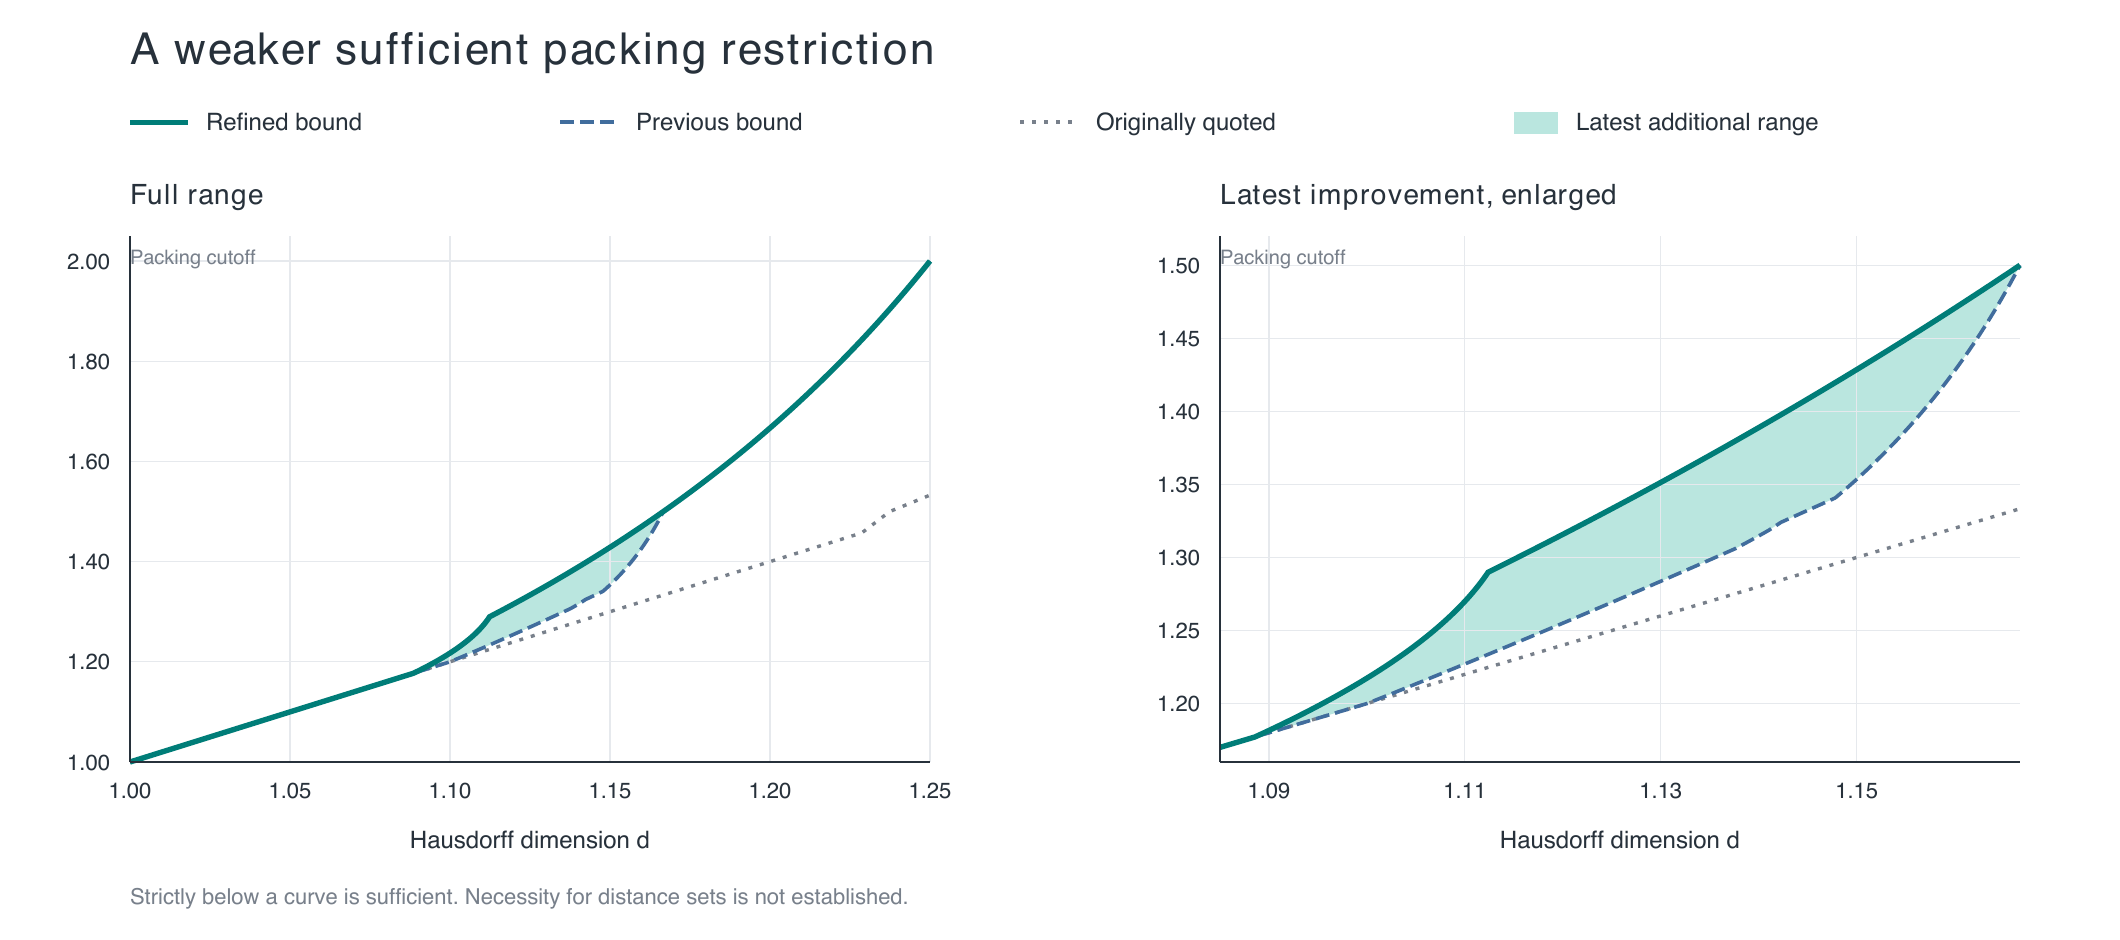
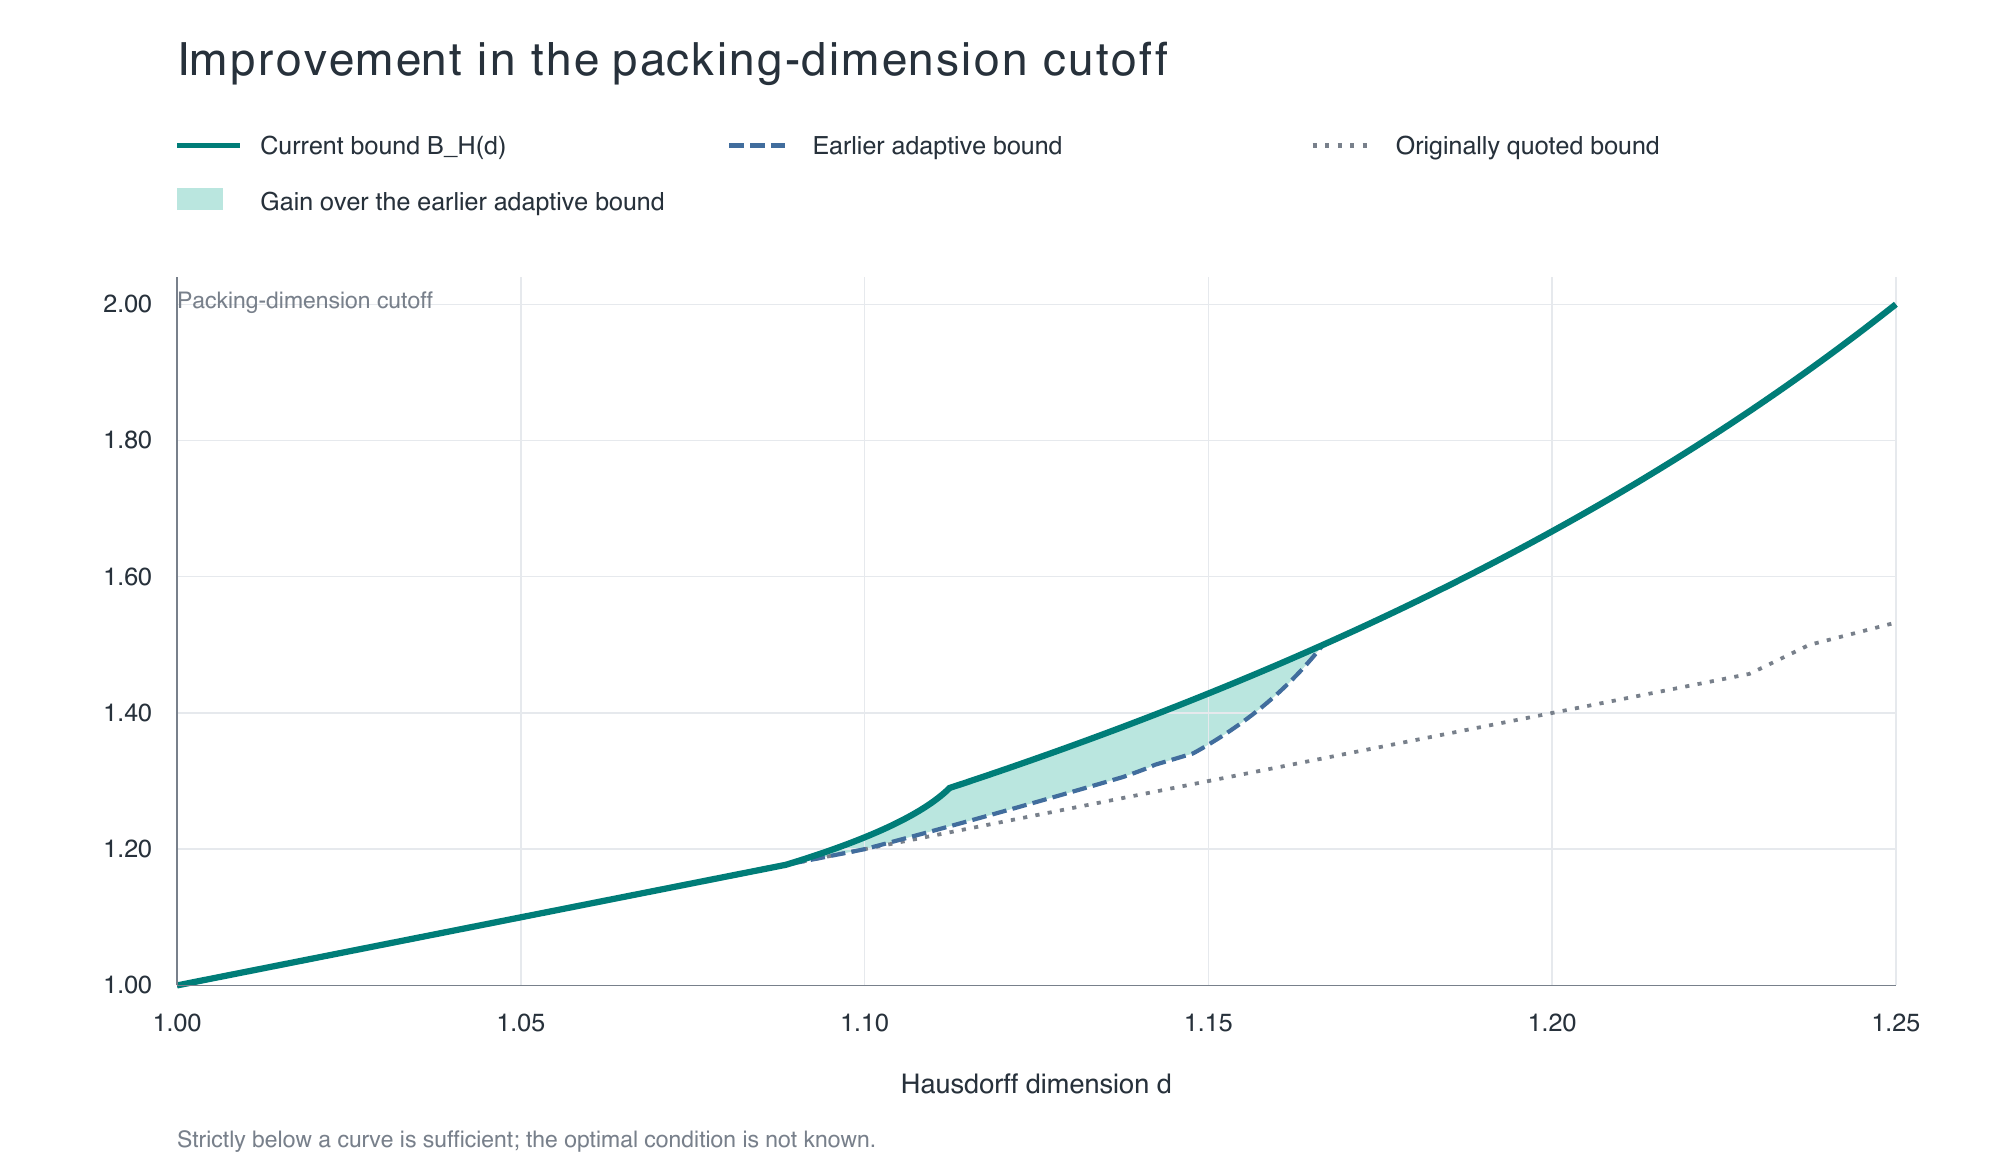
Use one full-range comparison graph in README [skip ci]

diff --git a/docs/figures/plot_packing_unforced.py b/docs/figures/plot_packing_unforced.py
@@ -1,0 +1,134 @@
+"""Regenerate the README figure with ReportLab and Poppler (pdftoppm)."""
+from math import sqrt
+from pathlib import Path
+from reportlab.graphics.shapes import Drawing, String, Line, PolyLine, Polygon, Rect
+from reportlab.graphics import renderSVG, renderPDF
+from tempfile import TemporaryDirectory
+import subprocess
+from reportlab.lib.colors import HexColor, white
+
+d0 = (9 + sqrt(33)) / 12
+d1 = (5 + sqrt(97)) / 12
+
+def upper(d):
+    return ((2*d-1)**2+sqrt((2*d-1)**4+8*d))/4
+
+def old(d):
+    return 2*d-1 if d <= d0 else 3*d*d-2.5*d if d <= d1 else upper(d)
+
+def root_between(f, lo, hi):
+    flo = f(lo)
+    for _ in range(80):
+        mid = (lo+hi)/2
+        if f(mid)*flo > 0:
+            lo = mid
+        else:
+            hi = mid
+    return (lo+hi)/2
+
+def adaptive_components(a, b, theta):
+    k = 2*b-a
+    q = b/k
+    h = (1+q)/2-theta*a/(4*k)
+    r = theta/(4*b)
+    lam = (1-2*b)/(4*b)
+    l0 = (1-2*a)/4
+    a0 = (1-a-3*b)/3
+    gamma = (6*b-1-2*a)/(3*a)
+    mt = a*h/(1-a*r)
+    early = min(a0+gamma*mt, (gamma*l0+lam*a0)/(gamma+lam))
+    zero = min((1-q)/3, (1-a)*(b-a)/(4*k*(1-b)))
+    av = (1-a)/3-(1-b)*h/2
+    sv = (1-a)/(6*a)-(1-b)*r/2
+    al = (1-a)/3-h
+    sl = (a+2)/(3*a)-r
+    late = min(av+sv*a, (sv*l0+lam*av)/(sv+lam),
+               al+sl*a, (sl*l0+lam*al)/(sl+lam))
+    return zero, early, late
+
+def adaptive_cost(a, b):
+    # The early bound is nondecreasing in theta; the late bound is decreasing.
+    z, e, l = adaptive_components(a, b, 0)
+    if e >= l:
+        return max(z, e, l)
+    z, e, l = adaptive_components(a, b, 1)
+    if e <= l:
+        return max(z, e, l)
+    lo, hi = 0., 1.
+    for _ in range(42):
+        mid = (lo+hi)/2
+        z, e, l = adaptive_components(a, b, mid)
+        if e < l:
+            lo = mid
+        else:
+            hi = mid
+    return max(adaptive_components(a, b, (lo+hi)/2))
+
+def adaptive_bound(d):
+    if d <= 1.1:
+        return 2*d-1
+    if d >= 7/6:
+        return 1/(3-2*d)
+    a = d-1
+    return 1+root_between(lambda b: adaptive_cost(a,b)-a, 2*a, .5)
+
+
+def current(d):
+    if d <= (7 - sqrt(7)) / 4:
+        return 2 * d - 1
+    if d >= (2 + sqrt(6)) / 4:
+        return 1 / (3 - 2 * d)
+    a = d - 1
+    return 1 + 6 * a / (8 * a*a - a + 2 + sqrt(64*a**4 + 32*a**3 - 63*a*a - 28*a + 4))
+
+
+if __name__ == "__main__":
+    drawing = Drawing(960, 560)
+    drawing.add(Rect(0, 0, 960, 560, fillColor=white, strokeColor=None))
+    ink, teal, blue, gray, shade = map(HexColor,
+        ["#27313b", "#007d78", "#416d9d", "#78808b", "#bae6df"])
+    def text(x, y, value, size=12, color=ink, anchor="start", bold=False):
+        drawing.add(String(x, y, value, fontSize=size, fillColor=color,
+            textAnchor=anchor, fontName="Helvetica-Bold" if bold else "Helvetica"))
+    text(85, 524, "Improvement in the packing-dimension cutoff", 22, bold=True)
+    for x, color, dash, label in [(85, teal, None, "Current bound B_H(d)"),
+        (350, blue, [7,3], "Earlier adaptive bound"),
+        (630, gray, [2,4], "Originally quoted bound")]:
+        drawing.add(Line(x, 490, x+30, 490, strokeColor=color, strokeWidth=2.5,
+                         strokeDashArray=dash))
+        text(x+40, 486, label)
+    drawing.add(Rect(85, 459, 22, 11, fillColor=shade, strokeColor=None))
+    text(125, 459, "Gain over the earlier adaptive bound")
+    x, y, w, h = 85, 87, 825, 340
+    X = lambda d: x + w*(d-1)/.25
+    Y = lambda b: y + h*(b-1)/1.04
+    xs = sorted({1+.25*j/1200 for j in range(1201)} |
+                {(7-sqrt(7))/4, (2+sqrt(6))/4, 1.1, 7/6, d0, d1})
+    latest = {d: current(d) for d in xs}
+    previous = {d: adaptive_bound(d) for d in xs}
+    extra = [d for d in xs if (7-sqrt(7))/4 <= d <= 7/6]
+    points = [v for d in extra for v in (X(d), Y(latest[d]))]
+    points += [v for d in reversed(extra) for v in (X(d), Y(previous[d]))]
+    drawing.add(Polygon(points, fillColor=shade, strokeColor=None))
+    for d in [1,1.05,1.1,1.15,1.2,1.25]:
+        drawing.add(Line(X(d), y, X(d), y+h, strokeColor=HexColor("#e6e9ed"), strokeWidth=.7))
+        text(X(d), y-22, f"{d:.2f}", anchor="middle")
+    for b in [1,1.2,1.4,1.6,1.8,2]:
+        drawing.add(Line(x, Y(b), x+w, Y(b), strokeColor=HexColor("#e6e9ed"), strokeWidth=.7))
+        text(x-12, Y(b)-4, f"{b:.2f}", anchor="end")
+    for f, color, width, dash in [(old, gray, 1.8, [2,4]),
+        (previous.__getitem__, blue, 2, [7,3]), (latest.__getitem__, teal, 3, None)]:
+        drawing.add(PolyLine([v for d in xs for v in (X(d), Y(f(d)))],
+            strokeColor=color, strokeWidth=width, strokeDashArray=dash))
+    drawing.add(Line(x,y,x+w,y,strokeColor=gray,strokeWidth=.8))
+    drawing.add(Line(x,y,x,y+h,strokeColor=gray,strokeWidth=.8))
+    text(x, y+h-15, "Packing-dimension cutoff", 11, gray)
+    text(x+w/2, 35, "Hausdorff dimension d", 13, anchor="middle")
+    text(85, 9, "Strictly below a curve is sufficient; the optimal condition is not known.", 11, gray)
+    out = Path(__file__).resolve().parent
+    renderSVG.drawToFile(drawing, str(out / "packing-unforced.svg"))
+    with TemporaryDirectory() as temp:
+        pdf = str(Path(temp) / "figure.pdf")
+        renderPDF.drawToFile(drawing, pdf)
+        subprocess.run(["pdftoppm", "-singlefile", "-png", "-r", "150", pdf,
+                        str(out / "packing-unforced")], check=True)

diff --git a/docs/packing-unforced/README.md b/docs/packing-unforced/README.md
@@ -44,7 +44,7 @@ continuous. Every packing inequality is strict. At Hausdorff dimension five
 quarters this covers packing dimension strictly below two. Above five quarters,
 GIOW already gives the conclusion without a packing restriction.
 
-![The new explicit curve and the preceding adaptive bound, with an enlarged comparison.](../figures/packing-unforced.svg)
+![The current cutoff and earlier bounds, with the improvement shaded.](../figures/packing-unforced.svg)
 
 ## Exact examples
 
